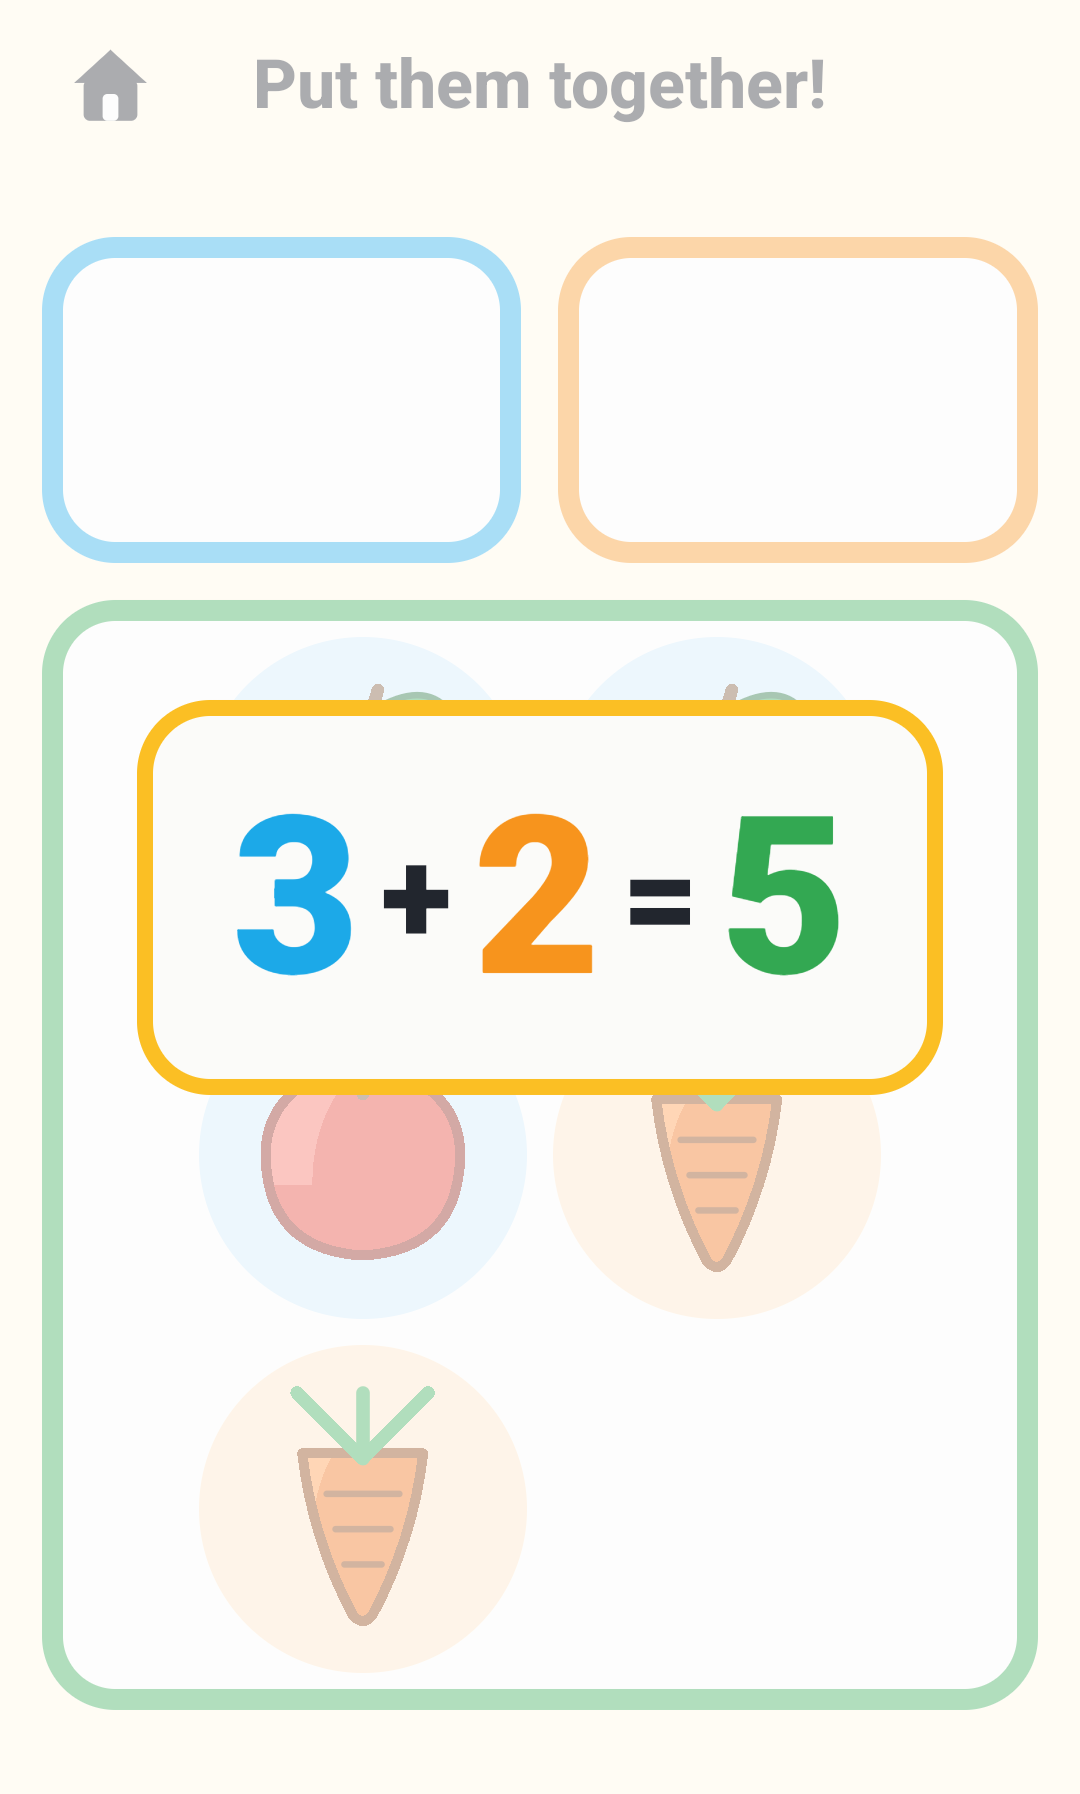
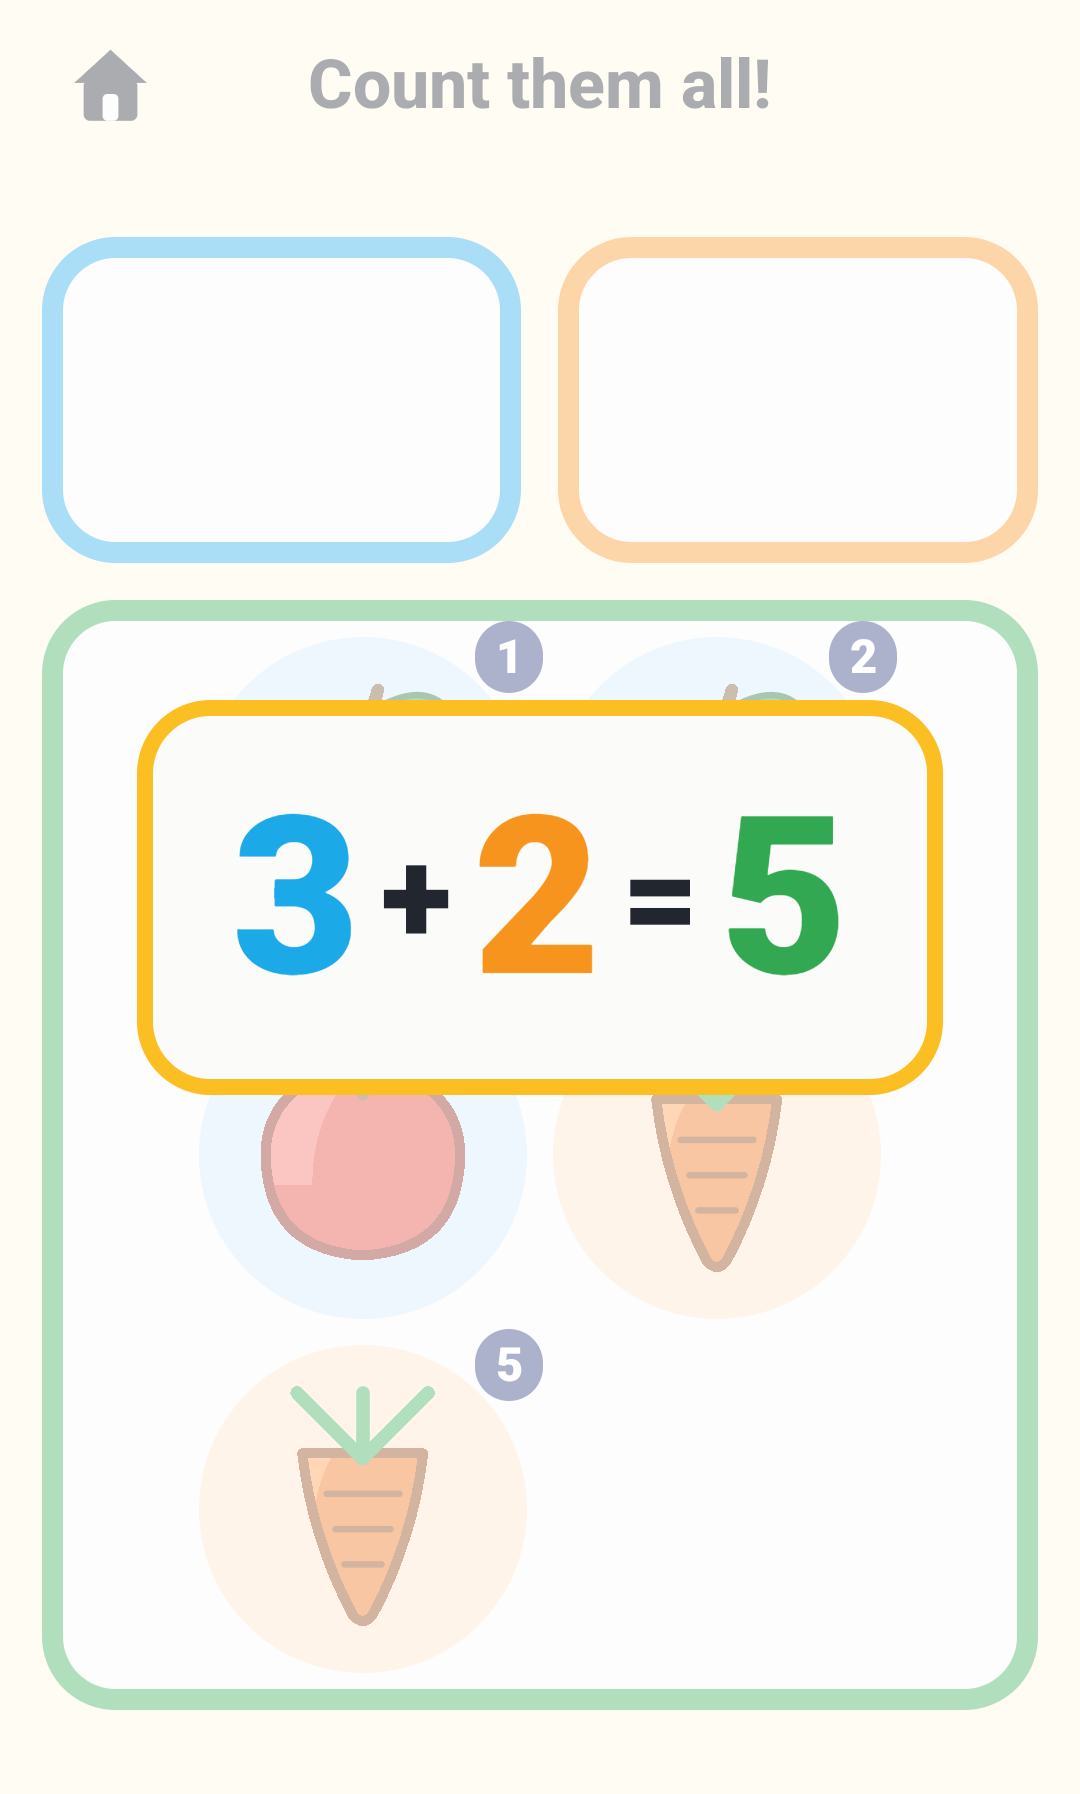
v7 cleanup: ban em-dashes, refresh AGENTS.md and README, commit fresh screenshots
Purging the em-dash everywhere: 27 instances in KDoc and comments across
main, test and androidTest replaced with commas, colons, parens or sentence
breaks. The only char left is the symbol inside AGENTS.md's style rule that
names it.

AGENTS.md now documents what this session settled:
- The game is v7 (three-phase put together, child counts the leftovers in
  take away, chips follow his finger).
- A Style section: no em-dashes, and store text is plain prose with no
  quotes or markdown so pasting into Play Console keeps the formatting.
- Releasing: the signed AAB is pulled from the latest-build release (the
  builds branch push has been observed to stay stale), and every release
  hands the owner the AAB, the fresh screenshots, and plain release notes
  together.

README rewritten for v7 (old counting-on flow was factually stale), and the
committed play-store screenshots refreshed with the current CI renders.
Scenes the UI did not change rendered byte-identical, which the workflow
being deterministic confirms.

diff --git a/app/src/main/java/app/maqsadah/count_and_play/ui/ShapeArt.kt b/app/src/main/java/app/maqsadah/count_and_play/ui/ShapeArt.kt
@@ -18,7 +18,7 @@ import app.maqsadah.count_and_play.core.ShapeKind
 /**
  * The ten countable objects, drawn as vector paths. Never emoji: emoji depend
  * on a font we do not control, and drawing the shapes ourselves means the
- * no-animate-beings rule is guaranteed by construction — no code path here can
+ * no-animate-beings rule is guaranteed by construction: no code path here can
  * produce a face. Everything is designed in a 100x100 box and scaled to the
  * cell, so a shape is identical at every size and on every screen.
  */
@@ -68,7 +68,7 @@ fun DrawScope.drawCountable(kind: ShapeKind, cell: Float, detail: Detail = detai
     drawPath(body, colors.fill, style = Fill)
     if (detail == Detail.FULL || detail == Detail.PRIMARY) {
         // One hard-edged facet catching the upper-left light. No blur, no
-        // gradient — a bevel, not a highlight, so the look stays flat.
+        // gradient: a bevel, not a highlight, so the look stays flat.
         clipPath(body) { drawPath(facetPath(kind, s), colors.facet, style = Fill) }
     }
     drawPath(body, colors.stroke, style = Stroke(width = 4f * s, join = StrokeJoin.Round, cap = StrokeCap.Round))
@@ -125,7 +125,7 @@ private fun bodyPath(kind: ShapeKind, s: Float): Path {
             q(72f, 74f, 14f, 84f)
             p.close()
         }
-        // The only orthogonal shape — instantly separable from every fruit.
+        // The only orthogonal shape, instantly separable from every fruit.
         ShapeKind.BLOCK -> {
             m(16f, 36f)
             l(46f, 12f)
@@ -199,7 +199,7 @@ private fun facetPath(kind: ShapeKind, s: Float): Path {
     return p
 }
 
-/** Stems, veins, seeds and grooves — dropped first as the cell gets smaller. */
+/** Stems, veins, seeds and grooves, dropped first as the cell gets smaller. */
 private fun DrawScope.drawTrim(kind: ShapeKind, s: Float, colors: ShapeColors, detail: Detail) {
     when (kind) {
         ShapeKind.APPLE -> {
@@ -238,7 +238,7 @@ private fun DrawScope.drawTrim(kind: ShapeKind, s: Float, colors: ShapeColors, d
         ShapeKind.MELON -> {
             drawLine(MelonRind, Offset(8f * s, 34f * s), Offset(92f * s, 34f * s), 9f * s)
             if (detail == Detail.FULL) {
-                // Four seeds in an arc following the rind — deliberately NOT
+                // Four seeds in an arc following the rind, deliberately NOT
                 // two-above-one, which the eye reads as two eyes and a mouth.
                 // Pareidolia is still a face, and this app does not draw faces.
                 for ((x, y) in listOf(28f to 52f, 42f to 60f, 58f to 60f, 72f to 52f)) {

diff --git a/app/src/main/java/app/maqsadah/count_and_play/copy/Copy.kt b/app/src/main/java/app/maqsadah/count_and_play/copy/Copy.kt
@@ -8,8 +8,8 @@ enum class Language { EN, BN }
  *
  * Android string resources are the wrong tool here for a specific reason:
  * Bengali's plural rules have only an `other` category, so `<plurals>` buys
- * nothing, and the real grammatical difference is a *classifier* — টি attaches
- * to the numeral and the noun stays unchanged ("তিনটি আপেল") — which no resource
+ * nothing, and the real grammatical difference is a *classifier*: টি attaches
+ * to the numeral and the noun stays unchanged ("তিনটি আপেল"), which no resource
  * mechanism models. These lines are grammar, not text, so each language writes
  * its own templates instead of swapping words into a shared one.
  */
@@ -44,7 +44,7 @@ interface Copy {
     fun promptAdd(): String
     fun promptTake(b: Int): String
 
-    /** ADD, after the pour: the whole is counted afresh — "Count them all!" */
+    /** ADD, after the pour: the whole is counted afresh: "Count them all!" */
     fun promptAll(): String
 
     /** TAKE, once the asked number is gone: "How many are left?" */
@@ -54,7 +54,7 @@ interface Copy {
     fun cardinal(n: Int): String
 
     /**
-     * The plain arithmetic fact, spoken warmly — the statement itself is better
+     * The plain arithmetic fact, spoken warmly: the statement itself is better
      * praise than anything evaluative: "Three and two is five!"
      */
     fun factAdd(a: Int, b: Int, total: Int): String

diff --git a/app/src/main/java/app/maqsadah/count_and_play/core/Model.kt b/app/src/main/java/app/maqsadah/count_and_play/core/Model.kt
@@ -20,7 +20,7 @@ data class Token(
 /**
  * COUNT: a tray of n tokens. The child taps each token once, in whatever
  * order he likes; each valid tap says the next counting word and the token
- * keeps a chip with that number — his tap order, not the tray's. A tap on an
+ * keeps a chip with that number: his tap order, not the tray's. A tap on an
  * already-counted token is recorded as a struggle but changes nothing and
  * makes no noise.
  */
@@ -57,7 +57,7 @@ data class CountState(
  * ADD, in three phases the child drives himself:
  * 1. COUNT THE PARTS: each plate is counted on its own, one counting word per
  *    tap, chips in his tap order; finishing a plate says its cardinal. The
- *    plates may be counted in any order, even interleaved — each keeps its
+ *    plates may be counted in any order, even interleaved, and each keeps its
  *    own count.
  * 2. POUR: once both plates are counted the button wakes; tapping it pours
  *    everyone into the bowl, each part keeping its plate's colour.
@@ -139,7 +139,7 @@ data class AddState(
 
 /**
  * TAKE, in two phases the child drives himself:
- * 1. TAKE AWAY: each tap removes one token — THUD, its take-away number, and
+ * 1. TAKE AWAY: each tap removes one token: THUD, its take-away number, and
  *    the token sinks into its ghost wearing that number. The b-th removal
  *    asks how many are left.
  * 2. COUNT THE LEFT: the child counts the leftovers himself, one word per

diff --git a/app/src/androidTest/java/app/maqsadah/count_and_play/ScreenshotTest.kt b/app/src/androidTest/java/app/maqsadah/count_and_play/ScreenshotTest.kt
@@ -30,7 +30,7 @@ import org.junit.runner.RunWith
  *
  * These are ordinary state renders, not a live playthrough: every screen below
  * is a [UiModel] handed straight to [GameScreen]. That is only possible
- * because no composable in this app takes a ViewModel — so there is no TTS, no
+ * because no composable in this app takes a ViewModel, so there is no TTS, no
  * coroutine timing and no emulator flakiness involved in capturing them, and
  * states that are awkward to reach by playing are trivial to photograph.
  *
@@ -53,7 +53,7 @@ class ScreenshotTest {
 
     /**
      * The rule permits exactly one `setContent` per test, so the content is
-     * mounted once and every scene is a state change pushed into it — which is
+     * mounted once and every scene is a state change pushed into it, which is
      * also the faster way round, and only possible because the whole screen is
      * a function of one immutable state.
      */
@@ -92,7 +92,7 @@ class ScreenshotTest {
             model(Screen.Add(addPoured()), flash = Flash.Add(3, 2, 5))
         }
 
-        // Mid-take: two of five gone, their ghosts on the tray — the child
+        // Mid-take: two of five gone, their ghosts on the tray; the child
         // is about to count what is left.
         shoot("05_take") {
             model(Screen.Take(TakeState(n = 5, b = 2, tokens = bowlOfBalls(gone = 2))))

diff --git a/app/src/main/java/app/maqsadah/count_and_play/copy/CopyBn.kt b/app/src/main/java/app/maqsadah/count_and_play/copy/CopyBn.kt
@@ -11,8 +11,8 @@ package app.maqsadah.count_and_play.copy
  *   "তিনটি আপেল", "দুইটি বাদ দাও!"
  * - The digits on screen are Bengali: ০-৯.
  * - Subtraction has two registers. The instruction to the child says বাদ দাও
- *   ("দুইটি বাদ দাও!"), but the arithmetic term — standalone and in the fact
- *   lines — is বিয়োগ. That was the v3.4 native-eye correction (it replaced বাদ),
+ *   ("দুইটি বাদ দাও!"), but the arithmetic term (standalone and in the fact
+ *   lines) is বিয়োগ. That was the v3.4 native-eye correction (it replaced বাদ),
  *   and the fact pair keeps the old pack's "...যোগ... হয়..." skeleton:
  *   "তিন যোগ দুই হয় পাঁচ!" / "পাঁচ বিয়োগ দুই হয় তিন!"
  */

diff --git a/app/src/main/java/app/maqsadah/count_and_play/core/Beat.kt b/app/src/main/java/app/maqsadah/count_and_play/core/Beat.kt
@@ -4,7 +4,7 @@ package app.maqsadah.count_and_play.core
 enum class Sfx { TICK, CLINK, THUD, CHIME, RUSTLE }
 
 /**
- * Everything the core can ask the host to do, in order. Pure data — no speech
+ * Everything the core can ask the host to do, in order. Pure data: no speech
  * engine, no sound pool, no Android. The host decides how each beat is
  * performed and how beats are queued.
  */
@@ -21,7 +21,7 @@ sealed class Beat {
     /** Both ADD plates are counted, the button is awake: "Put them together!" */
     object SayPromptAdd : Beat()
 
-    /** ADD, after the pour: the whole is counted afresh — "Count them all!" */
+    /** ADD, after the pour: the whole is counted afresh: "Count them all!" */
     object SayPromptAll : Beat()
 
     /** Round-start prompt for TAKE: "take away [b]". */

diff --git a/app/src/main/java/app/maqsadah/count_and_play/ui/Sparkle.kt b/app/src/main/java/app/maqsadah/count_and_play/ui/Sparkle.kt
@@ -22,13 +22,13 @@ import kotlin.random.Random
 /**
  * A burst of confetti when something goes right.
  *
- * Squares, discs and bars — nothing with a top and a bottom, nothing that
+ * Squares, discs and bars: nothing with a top and a bottom, nothing that
  * could resolve into a creature at a glance. Physical delight is allowed; a
  * dancing mascot is not, and paper thrown in the air is about as physical as
  * a screen gets.
  *
  * It never blocks. A celebration the game has to stop and wait for is not a
- * celebration, it is another pause — so the voice names the mathematics at
+ * celebration, it is another pause, so the voice names the mathematics at
  * the same moment the paper is still coming down.
  */
 private class Fleck(

diff --git a/app/src/main/java/app/maqsadah/count_and_play/ui/Screens.kt b/app/src/main/java/app/maqsadah/count_and_play/ui/Screens.kt
@@ -195,7 +195,7 @@ private fun ActivityFrame(prompt: String, onHome: () -> Unit, content: @Composab
                 fontFamily = ToyFont,
             )
             // Mirrors the home button so the prompt stays optically centred and
-            // can never slide underneath it — whatever the screen width or font.
+            // can never slide underneath it, whatever the screen width or font.
             Spacer(Modifier.width(52.dp))
         }
         Box(Modifier.weight(1f), contentAlignment = Alignment.Center) { content() }

diff --git a/app/src/test/java/app/maqsadah/count_and_play/core/AddTest.kt b/app/src/test/java/app/maqsadah/count_and_play/core/AddTest.kt
@@ -70,7 +70,7 @@ class AddTest {
             plateA = listOf(Token(1, ShapeKind.APPLE), Token(2, ShapeKind.APPLE), Token(3, ShapeKind.APPLE)),
             plateB = listOf(Token(4, ShapeKind.BALL), Token(5, ShapeKind.BALL)),
         )
-        // A, B, A, B, A — there is no correct order to break.
+        // A, B, A, B, A: there is no correct order to break.
         var s = start
         val counts = mutableListOf<Int>()
         for (id in listOf(1, 4, 2, 5, 3)) {

diff --git a/app/src/main/java/app/maqsadah/count_and_play/data/Store.kt b/app/src/main/java/app/maqsadah/count_and_play/data/Store.kt
@@ -7,7 +7,7 @@ import app.maqsadah.count_and_play.copy.Language
  * Everything that survives a restart: the grown-up's language and mute
  * choices, and the three invisible difficulty levels. Six values, so plain
  * SharedPreferences is the whole format. Levels are persisted, streaks are
- * not — a streak is a run, and a run ends when the app does.
+ * not (a streak is a run, and a run ends when the app does).
  */
 class Store(context: Context) {
 

diff --git a/app/src/main/java/app/maqsadah/count_and_play/ui/Objects.kt b/app/src/main/java/app/maqsadah/count_and_play/ui/Objects.kt
@@ -113,7 +113,7 @@ fun GhostSlot(sizeDp: Dp) {
 /**
  * A just-taken object: it lingers a beat wearing its take-away number, then
  * shrinks into the dashed ghost that keeps its slot for the rest of the
- * round. This is a visual transition (an animation), not pacing — the count
+ * round. This is a visual transition (an animation), not pacing: the count
  * words and their timing stay with the host's beats.
  */
 @Composable

diff --git a/app/src/test/java/app/maqsadah/count_and_play/core/TakeTest.kt b/app/src/test/java/app/maqsadah/count_and_play/core/TakeTest.kt
@@ -82,7 +82,7 @@ class TakeTest {
         assertTrue(s.removalDone)
         assertFalse(s.done)
 
-        // A tap on a leftover now counts it — it does not remove it.
+        // A tap on a leftover now counts it; it does not remove it.
         val leftId = s.tokens.first { !it.gone }.id
         val (counted, beats) = s.onTap(leftId)
         assertEquals(listOf(1), beats.sayCounts())
